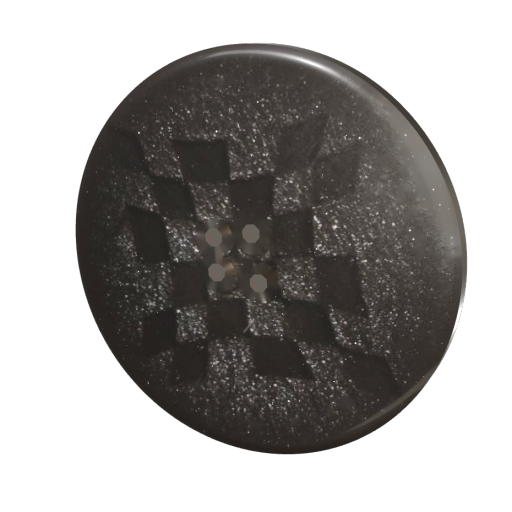
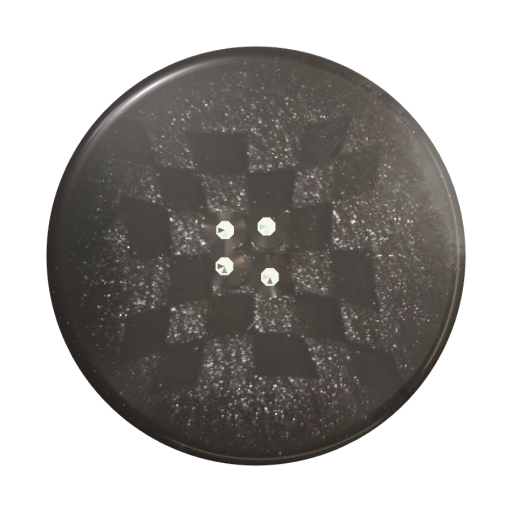
No.009 炎もようのシルバーリングを追加、一覧のサムネイルを真正面に
Claude-Session: https://claude.ai/code/session_016FYwPZtfL2VXYvYEvMUPRr

Changed region(s): [[0.0625, 0.0625, 0.9375, 0.9375]]

diff --git a/buttons/009/model.js b/buttons/009/model.js
@@ -1,0 +1,79 @@
+/* No.009 */
+(() => {
+const TEX = {"front": "front.jpg", "back": "back.jpg", "material": "material.png"};
+/* No.009 polished brass ring with red enamel flames, around a red marbled centre full of fine silver glitter.
+   material.png: B = metalness, G = roughness, R = where the silver glitter is */
+function inlayMat(map, matMap) {
+  const mm = loader.load(matMap);
+  const m = new THREE.MeshPhysicalMaterial({ map, metalnessMap: mm, roughnessMap: mm, metalness: 1, roughness: 1,
+    clearcoat: 1, clearcoatRoughness: .04, envMapIntensity: 1.35 });
+  const uMV = { value: new THREE.Matrix3() };
+  m.userData.uMV = uMV;
+  m.onBeforeCompile = (sh) => {
+    sh.uniforms.matMap = { value: mm };
+    sh.uniforms.uMV = uMV;
+    sh.fragmentShader = sh.fragmentShader
+      .replace('#include <common>', '#include <common>\nuniform sampler2D matMap;\nuniform mat3 uMV;\nfloat hsh(vec2 p){ return fract(sin(dot(p, vec2(12.9898, 78.233))) * 43758.5453); }')
+      .replace('#include <emissivemap_fragment>', `#include <emissivemap_fragment>
+      {
+        float gm = texture2D(matMap, vUv).r;
+        vec3 N = normalize(normal);
+        vec3 V = normalize(vViewPosition);
+        vec3 Ls[3];
+        Ls[0] = normalize(vec3(-2.0, 3.0, 4.0)); Ls[1] = normalize(vec3(2.6, 1.0, 3.0)); Ls[2] = normalize(vec3(0.3, -2.2, 3.0));
+        vec3 acc = vec3(0.0);
+        for (int k = 0; k < 2; k++) {
+          float sc = k == 0 ? 420.0 : 260.0;
+          vec2 cell = floor(vUv * sc + float(k) * 0.37);
+          vec2 f = fract(vUv * sc + float(k) * 0.37) - 0.5;
+          float on = step(k == 0 ? 0.55 : 0.75, hsh(cell + 3.1 + float(k)));
+          vec3 fn = normalize(N + uMV * vec3((hsh(cell) - .5) * 1.8, (hsh(cell + 17.3) - .5) * 1.8, 0.0));
+          float g = 0.0;
+          for (int i = 0; i < 3; i++) g += pow(max(dot(reflect(-V, fn), Ls[i]), 0.0), 260.0);
+          acc += vec3(0.94, 0.95, 1.0) * g * on * smoothstep(0.5, 0.0, length(f));
+        }
+        totalEmissiveRadiance += acc * gm * 2.4;
+      }`);
+  };
+  return m;
+}
+function buildI() {
+  const grp = new THREE.Group();
+  const FZ = .05, BZ = -.06;
+  // gently domed face, rounded at the very edge
+  const frontZ = (x, y) => { const r = Math.min(1, Math.hypot(x, y)); const e = Math.max(0, (r - .94) / .06); return FZ + .12 * Math.pow(1 - r * r, .8) - .025 * e * e; };
+  const fm = inlayMat(tex(TEX.front), TEX.material);
+  const front = new THREE.Mesh(cap(1, 64, 220, frontZ, 1, false), fm);
+  front.onBeforeRender = (r, s, cam) => { fm.userData.uMV.value.setFromMatrix4(new THREE.Matrix4().multiplyMatrices(cam.matrixWorldInverse, front.matrixWorld)); };
+  grp.add(front);
+  // thin brass line around the edge, then the red body
+  grp.add(new THREE.Mesh(rim(1, FZ - .025, FZ - .045, 200), new THREE.MeshStandardMaterial({ color: 0xd6d2c6, metalness: 1, roughness: .15, envMapIntensity: 1.4 })));
+  grp.add(new THREE.Mesh(rim(1, FZ - .045, BZ, 200), new THREE.MeshPhysicalMaterial({ color: 0x6a1410, roughness: .25, clearcoat: 1, clearcoatRoughness: .05, envMapIntensity: .6 })));
+  // back: dome with two recessed slots and a small bridge (photo already mirrored)
+  const CH = { cx: .04, cy: .1, ang: 0, w: .26, L: .74, d: .12, bridge: .22 };
+  const dome = (x, y) => { const r = Math.min(1, Math.hypot(x, y)); return -.2 * Math.pow(1 - r * r, .75); };
+  const slot = (x, y) => {
+    const u = x - CH.cx, v = y - CH.cy, au = Math.abs(u), hw = CH.w / 2;
+    if (au > CH.L) return 0;
+    const ends = Math.min(1, (CH.L - au) / .06);
+    const side = Math.min(1, Math.max(0, (hw * Math.sqrt(Math.max(0, 1 - Math.pow(au / CH.L, 6))) - Math.abs(v)) / .02));
+    return CH.d * ends * side * side * (3 - 2 * side);
+  };
+  const backZ = (x, y) => { const z = dome(x, y); return BZ + z + Math.min(slot(x, y), -z); };
+  const backMat = photoMat(tex(TEX.back), { roughness: .22, clearcoat: 1, clearcoatRoughness: .05, side: THREE.DoubleSide });
+  grp.add(new THREE.Mesh(cap(1, 72, 240, backZ, -1, false), backMat));
+  const hw = CH.w / 2 + .02, Hh = CH.d;
+  const br = new THREE.Shape();
+  br.moveTo(-hw, 0); br.lineTo(-hw, Hh); br.lineTo(hw, Hh); br.lineTo(hw, 0);
+  br.lineTo(hw - .04, 0); br.lineTo(hw - .04, Hh * .35); br.quadraticCurveTo(0, Hh * .8, -hw + .04, Hh * .35); br.lineTo(-hw + .04, 0); br.closePath();
+  const bg = new THREE.ExtrudeGeometry(br, { depth: CH.bridge, bevelEnabled: true, bevelThickness: .01, bevelSize: .01, bevelSegments: 3, curveSegments: 8 });
+  bg.rotateX(-Math.PI / 2); bg.translate(0, -CH.bridge / 2, 0); bg.rotateZ(-Math.PI / 2);
+  bg.translate(CH.cx, CH.cy, BZ + dome(CH.cx, CH.cy) + CH.d);
+  const bp = bg.attributes.position, buv = bg.attributes.uv;
+  for (let i = 0; i < bp.count; i++) buv.setXY(i, bp.getX(i) / 2 + .5, bp.getY(i) / 2 + .5);
+  grp.add(new THREE.Mesh(bg, backMat));
+  return grp;
+}
+buildI.env = 'jewel';
+viewer(document.getElementById('cv'), buildI, 'v');
+})();

diff --git a/index.html b/index.html
@@ -19,12 +19,12 @@
 <link rel="preconnect" href="https://fonts.gstatic.com" crossorigin>
 <link rel="stylesheet" href="https://fonts.googleapis.com/css2?family=Zen+Old+Mincho:wght@500;700&family=Zen+Kaku+Gothic+New:wght@400;500&family=IBM+Plex+Mono:wght@400;500&display=swap">
 <link rel="stylesheet" href="assets/zukan.css">
-<script type="application/ld+json">{"@context": "https://schema.org", "@type": "CollectionPage", "name": "ボタン図鑑", "description": "手もちのヴィンテージボタンを写真から3Dにした図鑑。くるっと回して、表も裏も、光の動きまで眺められます。", "url": "https://murasakiutau-create.github.io/Button_zukan/", "hasPart": [{"@type": "CreativeWork", "name": "No.001 ブラウンマーブル", "url": "https://murasakiutau-create.github.io/Button_zukan/buttons/001/"}, {"@type": "CreativeWork", "name": "No.002 金のクローバー", "url": "https://murasakiutau-create.github.io/Button_zukan/buttons/002/"}, {"@type": "CreativeWork", "name": "No.003 金縁の貝色ドーム", "url": "https://murasakiutau-create.github.io/Button_zukan/buttons/003/"}, {"@type": "CreativeWork", "name": "No.004 銀ラメの市松", "url": "https://murasakiutau-create.github.io/Button_zukan/buttons/004/"}, {"@type": "CreativeWork", "name": "No.005 波もようのリボン", "url": "https://murasakiutau-create.github.io/Button_zukan/buttons/005/"}, {"@type": "CreativeWork", "name": "No.006 キャラメルのお花", "url": "https://murasakiutau-create.github.io/Button_zukan/buttons/006/"}, {"@type": "CreativeWork", "name": "No.007 オーロラの八角石", "url": "https://murasakiutau-create.github.io/Button_zukan/buttons/007/"}, {"@type": "CreativeWork", "name": "No.008 ガーネットの三日月", "url": "https://murasakiutau-create.github.io/Button_zukan/buttons/008/"}]}</script>
+<script type="application/ld+json">{"@context": "https://schema.org", "@type": "CollectionPage", "name": "ボタン図鑑", "description": "手もちのヴィンテージボタンを写真から3Dにした図鑑。くるっと回して、表も裏も、光の動きまで眺められます。", "url": "https://murasakiutau-create.github.io/Button_zukan/", "hasPart": [{"@type": "CreativeWork", "name": "No.001 ブラウンマーブル", "url": "https://murasakiutau-create.github.io/Button_zukan/buttons/001/"}, {"@type": "CreativeWork", "name": "No.002 金のクローバー", "url": "https://murasakiutau-create.github.io/Button_zukan/buttons/002/"}, {"@type": "CreativeWork", "name": "No.003 金縁の貝色ドーム", "url": "https://murasakiutau-create.github.io/Button_zukan/buttons/003/"}, {"@type": "CreativeWork", "name": "No.004 銀ラメの市松", "url": "https://murasakiutau-create.github.io/Button_zukan/buttons/004/"}, {"@type": "CreativeWork", "name": "No.005 波もようのリボン", "url": "https://murasakiutau-create.github.io/Button_zukan/buttons/005/"}, {"@type": "CreativeWork", "name": "No.006 キャラメルのお花", "url": "https://murasakiutau-create.github.io/Button_zukan/buttons/006/"}, {"@type": "CreativeWork", "name": "No.007 オーロラの八角石", "url": "https://murasakiutau-create.github.io/Button_zukan/buttons/007/"}, {"@type": "CreativeWork", "name": "No.008 ガーネットの三日月", "url": "https://murasakiutau-create.github.io/Button_zukan/buttons/008/"}, {"@type": "CreativeWork", "name": "No.009 炎もようのシルバーリング", "url": "https://murasakiutau-create.github.io/Button_zukan/buttons/009/"}]}</script>
 </head>
 <body>
 <div class="wrap">
   <header class="intro">
-    <div class="eyebrow">Button specimens · 8</div>
+    <div class="eyebrow">Button specimens · 9</div>
     <h1>ボタン図鑑</h1>
     <p class="lead">手もちのヴィンテージボタンを写真から3Dにした図鑑。くるっと回して、表も裏も、光の動きまで眺められます。</p>
   </header>
@@ -61,6 +61,10 @@
     <li><a class="card" href="buttons/008/">
       <div class="well"><img src="buttons/008/thumb.png" width="512" height="512" alt="ガーネットの三日月のボタン" loading="lazy"></div>
       <div class="cap"><span class="no">No. 008</span><span class="name">ガーネットの三日月</span><span class="sub">左側がなだらかにえぐれて薄くなった、赤茶のラメ入りの面</span></div>
+    </a></li>
+    <li><a class="card" href="buttons/009/">
+      <div class="well"><img src="buttons/009/thumb.png" width="512" height="512" alt="炎もようのシルバーリングのボタン" loading="lazy"></div>
+      <div class="cap"><span class="no">No. 009</span><span class="name">炎もようのシルバーリング</span><span class="sub">赤いエナメルの炎もようを抜いた磨きのシルバーのリングと、銀ラメ入りの赤いマーブル</span></div>
     </a></li>
   </ul>
   </main>

diff --git a/buttons/009/index.html b/buttons/009/index.html
@@ -1,0 +1,53 @@
+<!doctype html>
+<html lang="ja">
+<head>
+<meta charset="utf-8">
+<meta name="viewport" content="width=device-width, initial-scale=1, viewport-fit=cover">
+<title>No.009 炎もようのシルバーリング | ボタン図鑑</title>
+<meta name="description" content="赤いエナメルの炎もようと磨きのシルバーのリング、銀ラメ入りの赤いマーブルを組み合わせたボタン。シルバーのきらめきを3Dで眺められます。">
+<link rel="canonical" href="https://murasakiutau-create.github.io/Button_zukan/buttons/009/">
+<meta property="og:type" content="website">
+<meta property="og:site_name" content="ボタン図鑑">
+<meta property="og:title" content="No.009 炎もようのシルバーリング | ボタン図鑑">
+<meta property="og:description" content="赤いエナメルの炎もようと磨きのシルバーのリング、銀ラメ入りの赤いマーブルを組み合わせたボタン。シルバーのきらめきを3Dで眺められます。">
+<meta property="og:url" content="https://murasakiutau-create.github.io/Button_zukan/buttons/009/">
+<meta property="og:image" content="https://murasakiutau-create.github.io/Button_zukan/buttons/009/thumb.png">
+<meta property="og:locale" content="ja_JP">
+<meta name="twitter:card" content="summary">
+<link rel="icon" href="../../assets/favicon.svg" type="image/svg+xml">
+<link rel="preconnect" href="https://fonts.googleapis.com">
+<link rel="preconnect" href="https://fonts.gstatic.com" crossorigin>
+<link rel="stylesheet" href="https://fonts.googleapis.com/css2?family=Zen+Old+Mincho:wght@500;700&family=Zen+Kaku+Gothic+New:wght@400;500&family=IBM+Plex+Mono:wght@400;500&display=swap">
+<link rel="stylesheet" href="../../assets/zukan.css">
+<script type="application/ld+json">{"@context": "https://schema.org", "@type": "BreadcrumbList", "itemListElement": [{"@type": "ListItem", "position": 1, "name": "ボタン図鑑", "item": "https://murasakiutau-create.github.io/Button_zukan/"}, {"@type": "ListItem", "position": 2, "name": "No.009 炎もようのシルバーリング", "item": "https://murasakiutau-create.github.io/Button_zukan/buttons/009/"}]}</script>
+</head>
+<body>
+<div class="wrap">
+  <nav class="sitebar" aria-label="パンくず">
+    <ol class="crumbs"><li><a href="../../">ボタン図鑑</a></li><li>No.009</li></ol>
+  </nav>
+  <main class="detail">
+    <div class="stage"><div class="loading">読みこみ中…</div><canvas id="cv" aria-label="炎もようのシルバーリングのボタンの3D表示"></canvas><span class="hint">ドラッグで回転</span></div>
+    <div class="info">
+      <span class="no">No. 009</span>
+      <h1>炎もようのシルバーリング</h1>
+      <p class="highlight">ふくらんだシルバーのリングが、傾けるたびにちゅるんと光を流します。中央の赤には細かな銀のラメ。</p>
+      <dl>
+        <dt>表</dt><dd>赤いエナメルの炎もようを抜いた磨きのシルバーのリングと、銀ラメ入りの赤いマーブル</dd>
+        <dt>裏</dt><dd>なめらかなドーム形の赤い裏に、2つの穴と小さな橋</dd>
+      </dl>
+      <div class="views" data-for="v">
+        <button type="button" id="v-front" data-view="front" aria-pressed="false">表</button>
+        <button type="button" id="v-back" data-view="back" aria-pressed="false">裏</button>
+        <button type="button" id="v-side" data-view="side" aria-pressed="false">横</button>
+      </div>
+    </div>
+  </main>
+  <nav class="pager" aria-label="ほかのボタン"><a href="../008/">← No.008 ガーネットの三日月</a><span></span></nav>
+  <footer>表と裏の模様は、実物のボタンを撮った写真から切り抜いて貼っています。厚みや足の形は写真を見ながら合わせたもので、だいたいの形です。</footer>
+</div>
+<script src="https://cdn.jsdelivr.net/npm/three@0.147.0/build/three.min.js"></script>
+<script src="../../assets/zukan.js"></script>
+<script src="model.js"></script>
+</body>
+</html>

diff --git a/buttons/008/index.html b/buttons/008/index.html
@@ -43,7 +43,7 @@
       </div>
     </div>
   </main>
-  <nav class="pager" aria-label="ほかのボタン"><a href="../007/">← No.007 オーロラの八角石</a><span></span></nav>
+  <nav class="pager" aria-label="ほかのボタン"><a href="../007/">← No.007 オーロラの八角石</a><a href="../009/">No.009 炎もようのシルバーリング →</a></nav>
   <footer>表と裏の模様は、実物のボタンを撮った写真から切り抜いて貼っています。厚みや足の形は写真を見ながら合わせたもので、だいたいの形です。</footer>
 </div>
 <script src="https://cdn.jsdelivr.net/npm/three@0.147.0/build/three.min.js"></script>

diff --git a/CLAUDE.md b/CLAUDE.md
@@ -36,7 +36,7 @@ tools/build_pages.py     HTML / sitemap.xml / robots.txt を生成
    - ラメのある場所 → `glitter.png`
 5. model.js で形を組む（`cap` / `rim` / `cloverRelief`（高さマップ）/ `stripRot` / ExtrudeGeometry）。材質は zukan.js の `marbleMat` `glowMat` `pearlMat` `glitterMat` `bowMat` などを使い回す。
 6. 裏の足はたいてい「溝＋真ん中の小さな橋（下に糸のトンネル）」。盛り上がった棒ではない。
-7. data/buttons.json に追記 → build_pages.py → サムネイル（`?thumb` を付けて開き canvas.toDataURL、512px）を作る。
+7. data/buttons.json に追記 → build_pages.py → サムネイル（`?thumb` を付けて開き、**真正面（yaw 0, pitch 0）**で canvas.toDataURL、512px）を作る。一覧ページは真正面固定の約束。
 
 ## 座標のきまり
 
